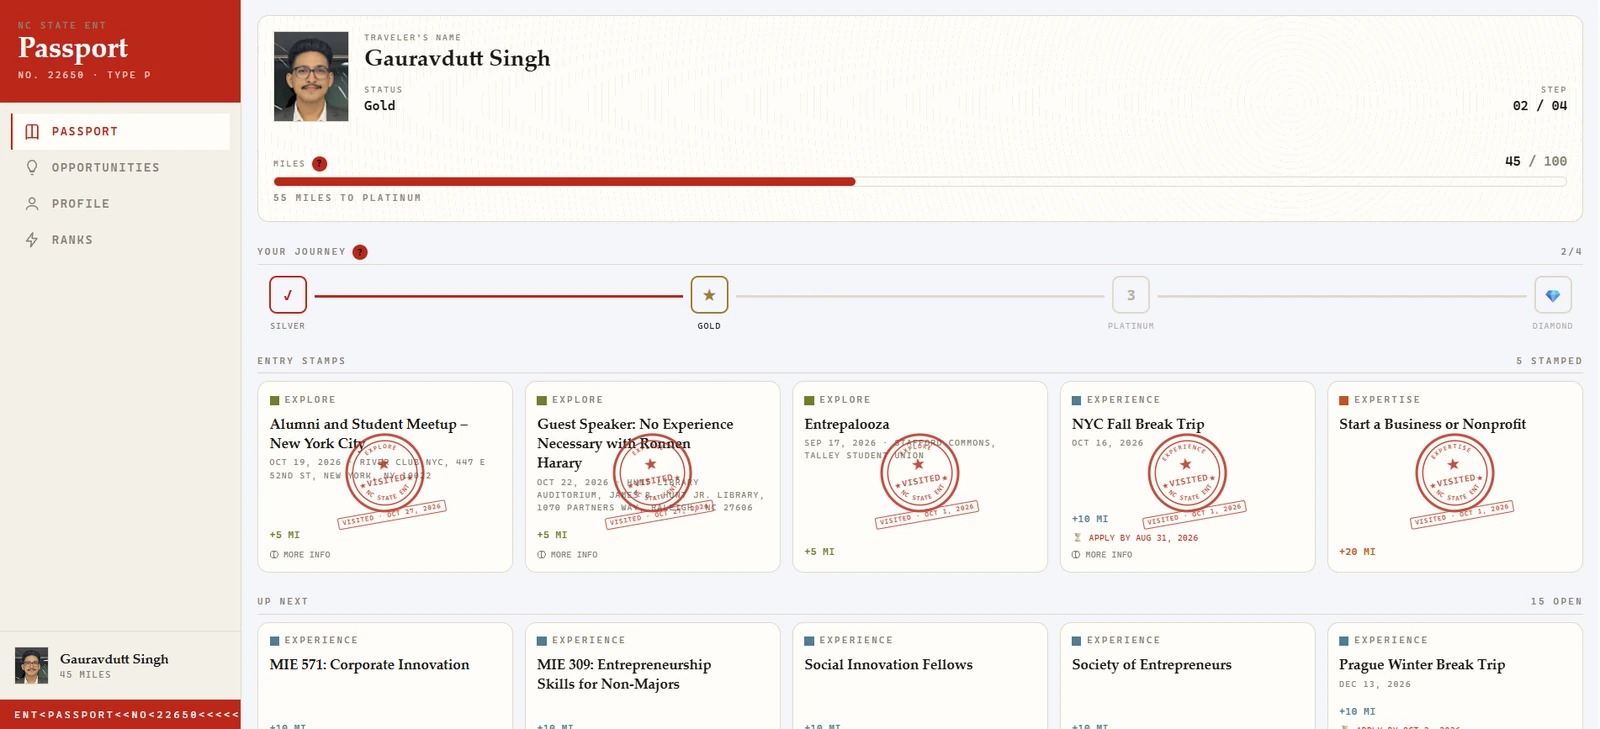
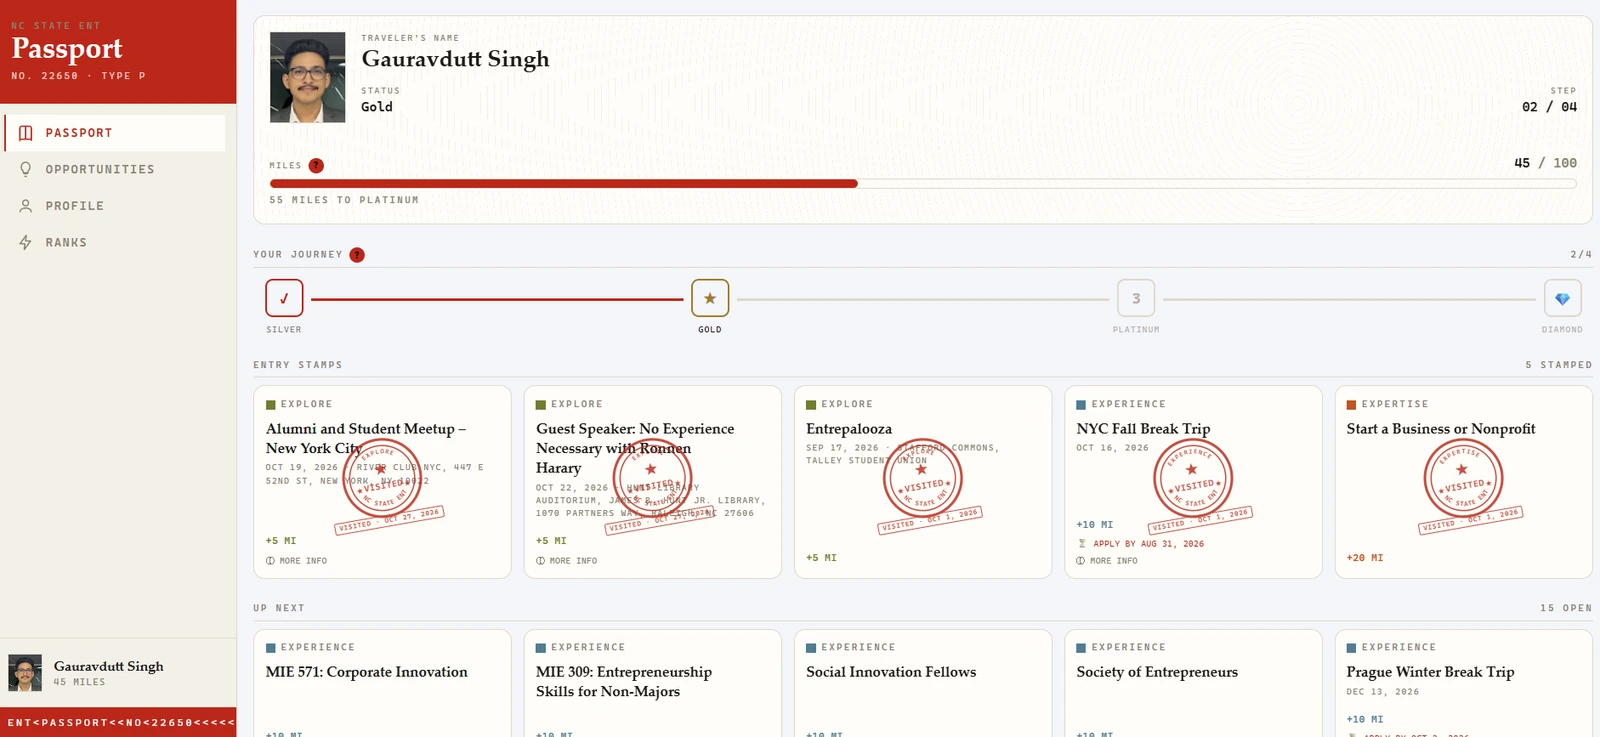
Recrop Passport hero so the full screenshot shows
Trim only the empty side margins and let the hero box take the image's
own shape (new ratio option), so the Start a Business card stays visible.

Claude-Session: https://claude.ai/code/session_01AkNa4VXHXg9D4UUjy2rXkv

diff --git a/site/app.js b/site/app.js
@@ -18,7 +18,7 @@ const imageIcon = '<svg width="28" height="28" viewBox="0 0 24 24" fill="none" s
 function image(id) {
   const v = d.images && d.images[id];
   if (!v) return null;
-  return typeof v === 'string' ? { src: v, focus: '' } : { src: v.src, focus: v.focus || '' };
+  return typeof v === 'string' ? { src: v, focus: '' } : { src: v.src, focus: v.focus || '', ratio: v.ratio };
 }
 
 // An image box: the mapped screenshot if there is one, otherwise a placeholder.
@@ -27,7 +27,7 @@ function slot(id, placeholder, cls = '') {
   const inner = im
     ? `<img src="${esc(im.src)}" alt="${esc(placeholder)}" loading="lazy"${im.focus ? ` style="object-position:${esc(im.focus)}"` : ''}>`
     : `<div class="slot-empty">${imageIcon}<span>${esc(placeholder)}</span></div>`;
-  return `<div class="slot ${cls}">${inner}</div>`;
+  return `<div class="slot ${cls}"${im && im.ratio ? ` style="aspect-ratio:${esc(im.ratio)}"` : ''}>${inner}</div>`;
 }
 
 // ── Templates ─────────────────────────────────────────

diff --git a/site/portfolio-data.js b/site/portfolio-data.js
@@ -22,7 +22,7 @@ export default {
   // e.g. 'passport-hero': 'images/passport-hero.jpg'
   // Use { src, focus } to choose which part survives the crop, e.g. focus: 'left'.
   images: {
-    'passport-hero': { src: 'images/passport-hero.webp', focus: 'left top' }
+    'passport-hero': { src: 'images/passport-hero.webp', focus: 'left top', ratio: '1600 / 737' }
   },
 
   // Default chapter names and narrator lines. A project can override any of

diff --git a/CLAUDE.md b/CLAUDE.md
@@ -19,7 +19,7 @@ All changes are made through Claude Code, so there is no CMS or in-page editing.
 - The `bio` mentions the kinds of projects; keep it in step when projects change.
 - Optional per-project fields: `result` (cover "Result" line), `labels` / `says` (override a chapter's name or narrator line by chapter key), `questionLabel`, `outcomeNote`, `aside` ("Behind the scenes" note). Metrics are `{ v, s, pre, l }` (counts up) or `{ text, l }` (shown as is). `built` and `learnings` items are `{ t, d }`.
 - Case study copy comes from the case-study notes Gaurav provides; keep his facts and numbers exactly, and only tighten wording.
-- Images: save to `site/images/` (compress to well under 500 KB, ~1600px wide), then map the slot id in `images` (a path, or `{ src, focus }` where `focus` is a CSS object-position that keeps the important part in the crop; boxes are 2:1 for hero/research, 3:4 for screens, and the hero also shows as a 4:3 hover preview on the home page). Slot ids: `<id>-hero`, `<id>-research`, `<id>-screen-1/2/3`.
+- Images: save to `site/images/` (compress to well under 500 KB, ~1600px wide), then map the slot id in `images` (a path, or `{ src, focus, ratio }` where `focus` is a CSS object-position that keeps the important part in the crop and `ratio` (e.g. `'1600 / 737'`) makes the box match the image's own shape so nothing is cropped; boxes are 2:1 for hero/research, 3:4 for screens, and the hero also shows as a 4:3 hover preview on the home page). Slot ids: `<id>-hero`, `<id>-research`, `<id>-screen-1/2/3`.
 
 ## Checking changes
 
